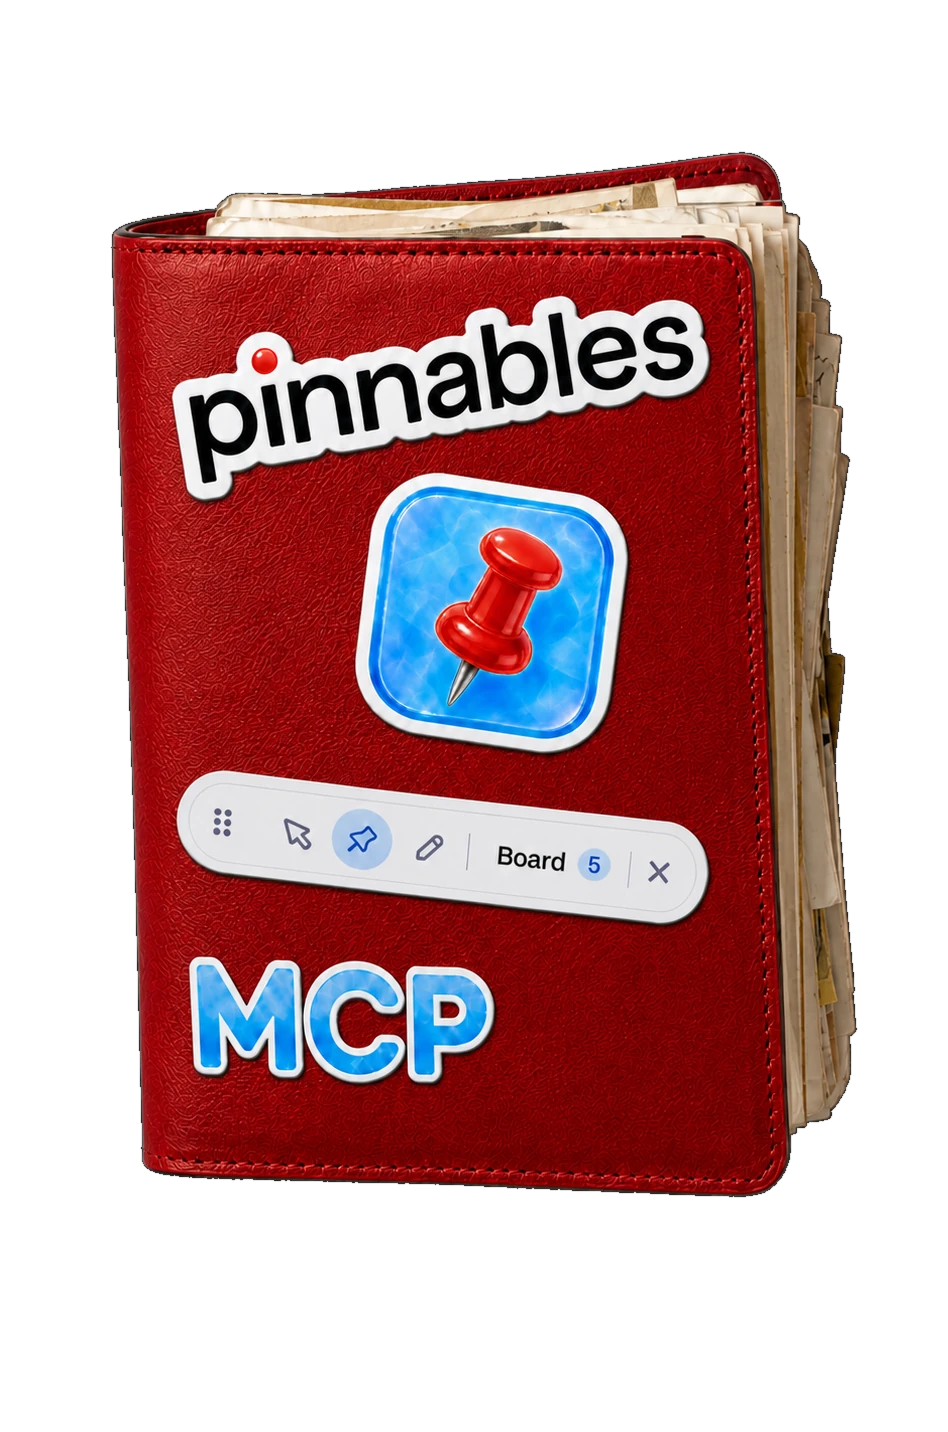
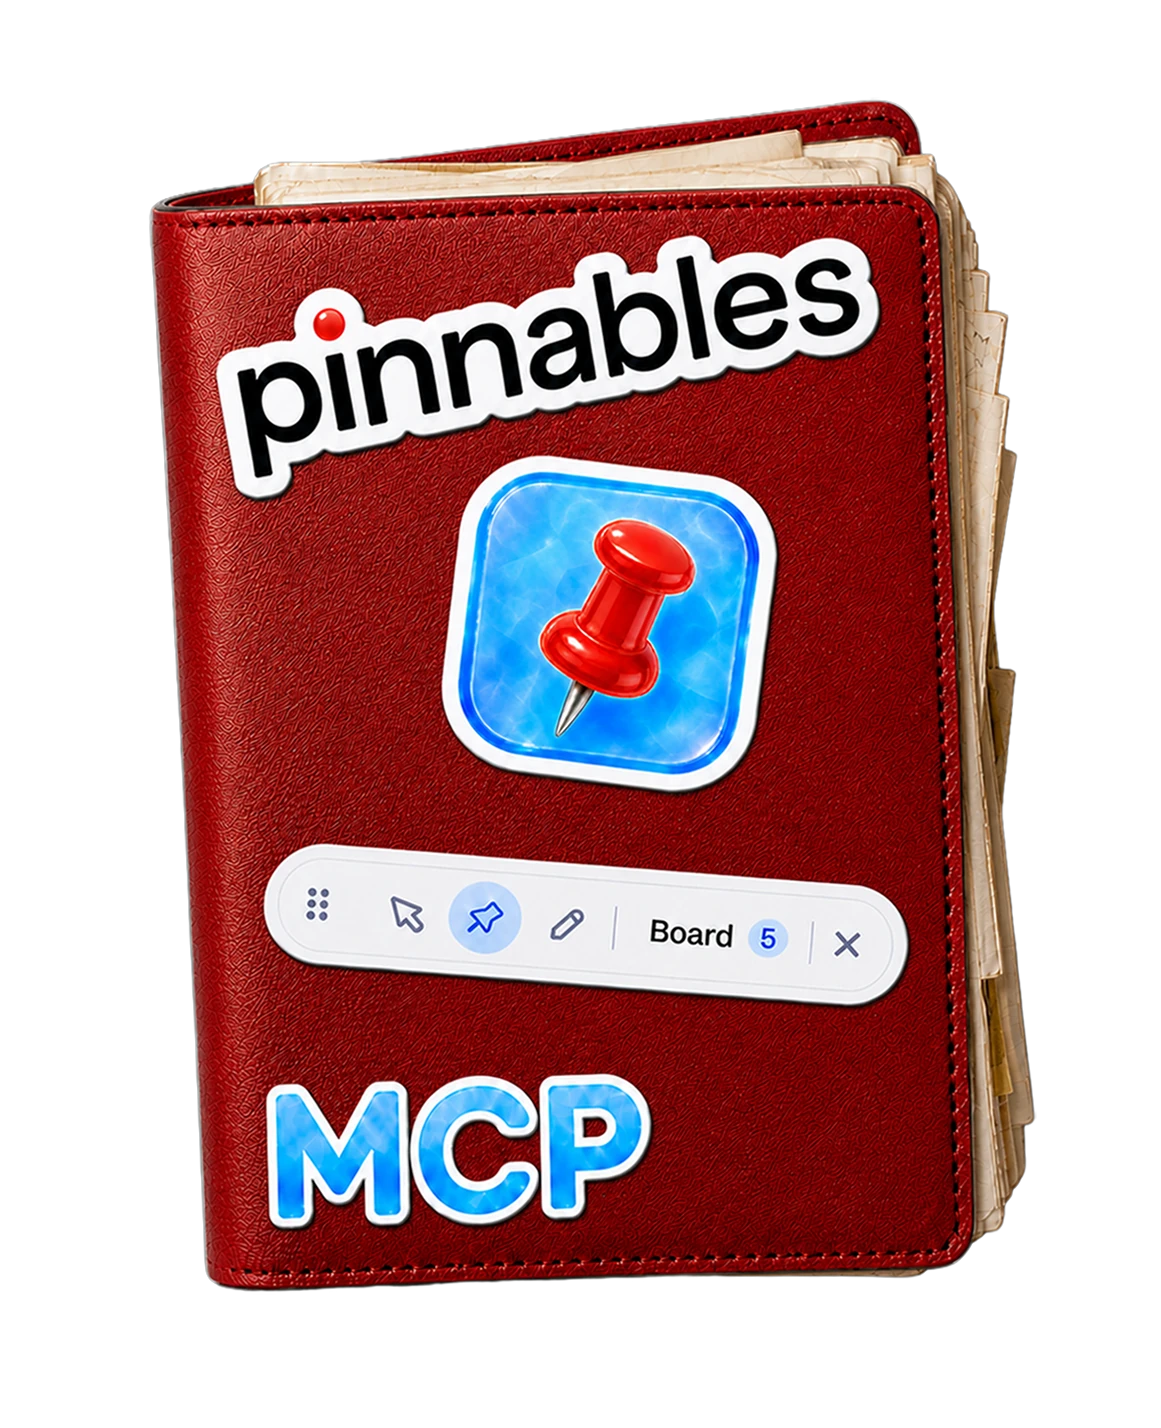
Journals: straight open cover for Pinnables, per-book lift and tilt
The Pinnables open frame was a render whose book sat rotated ~2.1 deg in
plane, so the notebook leaned left every time it opened. Swap it for the
transparent sibling export saved alongside the closed one, which stands
straight and shares its canvas. cutout.py now also rotates the open frame
1.275 deg to square its pose with the closed one: the two renders differ in
camera angle by 0.59 deg between spine and baseline, which no rigid rotation
can remove, so this splits that error evenly instead of loading it onto one
edge and reading as the cover twisting.

Hover behaviour is now per-book rather than one hardcoded transform:

  · openTilt sets the animated swing. It COMPOSES with the journal's resting
    rotation, so the net lean is their sum - Pinnables rests at +1.8, which is
    why the shared -1.5 left it sitting upright while its neighbours leaned.
  · openLift sets the rise, defaulting to the old -7.

Both default to the previous values, so Mixr is untouched.

Also fixes a lift that was never visible on Surprise Rail: trimOpen 7.57% sat
its open cover 11.85px below the closed one, more than the 7px rise, so the
book sank on hover. That padding was ballast for the old growth; with growth
at zero it only fought the lift. 5.31% seats the covers flush.

Covers come down 1% and 2%; --lead-h absorbs the label shift each resize
would otherwise cause, so both labels hold position to 0.000px.

diff --git a/src/pages/home/journals.ts b/src/pages/home/journals.ts
@@ -79,6 +79,18 @@ export type Journal = {
    *  including its annotation and both cover states. */
   offsetY: number;
   rotate: number;
+  /** Rotation the open cover springs to on hover, in degrees. It composes
+   *  with `rotate` above (the whole journal's resting pose), so the tilt the
+   *  eye reads is their SUM — the default -1.5 nets a left lean on a journal
+   *  resting counter-clockwise but nearly upright on one resting clockwise.
+   *  Override per journal to control the net lean. */
+  openTilt?: number;
+  /** How far the open cover rises on hover, in px. Negative is up; defaults to
+   *  -7. Only what the artwork does NOT already do — a frame whose own book
+   *  sits higher inside it needs less here. Check it against the seat: the
+   *  cover's real movement is this plus any difference in where the two frames
+   *  put the book's bottom edge. */
+  openLift?: number;
   /** What spills across the screen on hover. Empty is legitimate — a project
    *  with nothing to show yet opens onto an empty desk. */
   spill: SpillItem[];
@@ -100,15 +112,24 @@ export const journals: Journal[] = [
     hit: { x0: 0.1379, x1: 0.887, y0: 0.0357, y1: 0.96 },
     open: "/home/journals/hbomax-open.webp?v=2",
     trimClosed: "3.86%",
-    trimOpen: "7.57%",
+    /* Seats the open book's bottom edge flush with the closed one's. It was
+       7.57%, which pushed it 11.85px LOWER — more than the -7px hover lift, so
+       the notebook sank instead of rising and the lift was invisible. That
+       padding was cover for the old growth; with growth at zero it only fought
+       the lift. */
+    trimOpen: "5.31%",
     alt:
       "A sandy tan leather journal with HBO Max, eyes and Surprise stickers, tied with twine.",
     href: "/surprise-rail/",
-    width: 434,
+    width: 430,
     /* Net ~1% of its own rendered height (466px) below the shelf baseline —
        down 2%, then back up 1%. */
     offsetY: 4,
     rotate: -1.5,
+    /* The ANIMATED swing, not the pose: resting -1.5 means the open cover
+       settles at -4.02, further left than Pinnables, because this journal
+       already leans left at rest. */
+    openTilt: -2.52,
     /* Stills lifted straight out of /surprise-rail/ — the prototype as it was
        tested, not a re-render. Two shots, not three: the full home-screen grab
        carried the same film-reel tiles as the rail does and read as a duplicate
@@ -230,25 +251,40 @@ export const journals: Journal[] = [
     /* WebP rather than PNG like its neighbours: these frames arrive at twice
        their resolution, and WebP keeps all of it for a third of the weight
        (239KB against the ~590KB the smaller PNGs cost).
-       The closed cover comes from an export that already carried its own alpha;
-       the open one is still keyed off a black backdrop by
-       scripts/pinnables_notebook/cutout.py. Every number below is measured from
-       that script's output — re-run it if either frame is replaced. */
+       Both covers are transparent exports run through
+       scripts/pinnables_notebook/cutout.py, which sizes the open frame's canvas
+       so the pair cross-fades at matched scale and centre. Every number below
+       is measured from that script's output — re-run it if either frame is
+       replaced. */
     closed: "/home/journals/pinnables-closed.webp",
     hit: { x0: 0.1212, x1: 0.9002, y0: 0.0813, y1: 0.8959 },
-    open: "/home/journals/pinnables-open.webp",
+    open: "/home/journals/pinnables-open.webp?v=2",
     trimClosed: "10.41%",
-    trimOpen: "17.62%",
+    /* Tracks the open frame's canvas, which cutout.py resizes whenever
+       OPEN_GROWTH or OPEN_ROTATE changes — re-run it and copy the printed
+       trim rather than editing this by hand. */
+    trimOpen: "9.52%",
     alt:
       "A dark red leather journal with pinnables, pushpin and MCP stickers, stuffed with loose pages.",
     /* The notebooks share a baseline, so height is what the eye compares.
        Pinnables' saturated red cover and cleaner silhouette give it more
-       visual weight than its measured bounds suggest; rendering it 3% smaller
-       balances it optically with Surprise Rail and Mixr. The open export is
-       reduced by another 3% in home.css and re-centered within this frame. */
-    width: 449,
+       visual weight than its measured bounds suggest; rendering it 6% smaller
+       balances it optically with Surprise Rail and Mixr. The open frame needs
+       no per-book CSS: cutout.py already frames it at matched scale/centre. */
+    width: 436,
     offsetY: -3,
     rotate: 1.8,
+    /* The ANIMATED swing. Resting pose is +1.8 clockwise, so anything weaker
+       than -1.8 leaves the open cover sitting right of vertical no matter how
+       much it moves getting there — -1.6 netted +0.2 and read as no tilt at
+       all. -1.8 cancels the +1.8 resting pose exactly, so the ELEMENT ends up
+       at 0 — but the open artwork now carries its own lean from cutout.py's
+       OPEN_ROTATE, so the cover still reads as tilting rather than snapping
+       upright. That is why this can sit at the cancellation point and still
+       look right; it would not have before the frames were squared. */
+    openTilt: -1.8,
+    /* Rises further than the -7 default, asked for by eye. */
+    openLift: -10,
     /* One note, dead centre. There is no prototype to show yet, and a single
        scrap in the middle of an empty screen says that more plainly than a
        spread of placeholders would. */

diff --git a/src/pages/home/home.css b/src/pages/home/home.css
@@ -796,8 +796,10 @@
      100cqw * --cover-lift + --lead-h, and 100cqw IS the journal's width — so
      every px added to --jw lifts the label by --cover-lift, and --joffset
      carries it down bodily. This is what is left after holding the label still
-     through both. Retune it whenever this cover's width or offsetY moves. */
-  --lead-h: 23.87px;
+     through both. Retune it whenever this cover's width or offsetY moves.
+     Last retune: --jw 434 -> 430, which would have dropped the label 4.304px
+     (4 x --cover-lift), so that came back onto --lead-h. */
+  --lead-h: 28.174px;
 }
 
 .jr[data-journal="mixr"] .jr-annotation {
@@ -810,7 +812,9 @@
    Re-run that and update this if the cover is ever replaced. */
 .jr[data-journal="pinnables"] .jr-annotation {
   --cover-lift: 1.018;
-  --lead-h: 11px;
+  /* Was 11px at --jw 445; the cover came down to 436, which would have dropped
+     the label 9.162px (9 x --cover-lift), so that is added back here. */
+  --lead-h: 20.162px;
   /* Its copy runs to three lines against Surprise Rail's two, so an equal
      footing floated the block's top well above its neighbour's. Dropped until
      the two heading lines sit on one line across the shelf — the tops, since
@@ -853,24 +857,21 @@
    only their contents differ.
 
    surprise-rail: its open artwork holds a shorter book than its closed one, so
-   unscaled it shrank -4.02% and dropped on hover. These values instead grow it
-   +2.60%, the same growth mixr's pair has natively, so the two read alike on
-   hover. Confirmed by eye in the browser — do NOT replace with a bounds fit.
+   unscaled it shrank -3.74% and dropped on hover. This scale is exactly the
+   inverse of that (1 / 0.9626), so the open book renders at the closed one's
+   size - no growth on hover, only the lift and tilt. left is
+   -(width - 100%) / 2, which re-centres the scale.
+   Do NOT replace with a bounds fit; the transparent margins differ.
 
-   pinnables: hand-tuned. Fitting it analytically was tried twice (body bounds,
-   then a sticker-mask fit) and neither read right in place — its two shots are
-   on different canvases with different perspective, so pick values by eye
-   against the live hover and leave them.
+   pinnables: no rule since the straight open export — cutout.py frames the
+   open cover at the closed one's scale and centre, so the pair aligns at
+   width:100% like mixr's does. (The old rule compensated for a render whose
+   book was rotated ~2.1 deg; that frame is gone.)
 
    mixr: no rule — its pair is natively aligned. */
 .jr[data-journal="surprise-rail"] .jr-img--open {
-  left: -3.45%;
-  width: 106.9%;
-}
-
-.jr[data-journal="pinnables"] .jr-img--open {
-  left: 1.5463%;
-  width: 97%;
+  left: -1.9417%;
+  width: 103.883%;
 }
 
 

diff --git a/src/pages/home/Journal.tsx b/src/pages/home/Journal.tsx
@@ -69,6 +69,8 @@ function Journal({ journal, index }: Props) {
     width,
     offsetY,
     rotate,
+    openTilt,
+    openLift,
     spill,
   } = journal;
 
@@ -248,8 +250,11 @@ function Journal({ journal, index }: Props) {
           openImg,
           {
             opacity: visible ? 1 : 0,
-            y: visible ? -7 : 0,
-            rotate: visible ? -1.5 : 0,
+            y: visible ? openLift ?? -7 : 0,
+            /* Composes with the journal's resting rotation — the net lean is
+               their sum, which is why a journal resting clockwise needs a
+               stronger negative here to read as tilting left at all. */
+            rotate: visible ? openTilt ?? -1.5 : 0,
           },
           reduced ? { duration: 0 } : SPRING_HEAVY
         );

diff --git a/scripts/pinnables_notebook/cutout.py b/scripts/pinnables_notebook/cutout.py
@@ -25,10 +25,19 @@ FRAMES = [
     # The closed source is an export that already carries its own alpha, and it
     # beats anything keyed here: the bottom lip of the leather is a deep
     # shadowed red, and no threshold separates that from a black backdrop as
-    # cleanly as the tool that rendered it. Swap the open one for a transparent
-    # export too and this will pick that up automatically.
+    # cleanly as the tool that rendered it.
     ("Red notebook stickers.png", "pinnables-closed.webp"),
-    ("Generated image 1.png", "pinnables-open.webp"),
+    # The open frame is the transparent sibling export saved alongside the
+    # closed one (absolute path — it lives with the other notebook sources,
+    # not in Downloads). It replaced "Generated image 1.png", whose book was
+    # rotated ~2.1 deg counter-clockwise IN PLANE (spine and bottom edge
+    # agreed), which read as the notebook leaning left every time it opened.
+    # This export's bottom edge is level (-0.05 deg) and its spine matches the
+    # closed frame's natural 3/4 perspective, so the pair reads straight.
+    (
+        os.path.expanduser("~/Documents/Portfolio/Notebooks/Red open.png"),
+        "pinnables-open.webp",
+    ),
 ]
 
 # Anything at or below this luminance counts as backdrop, but only if the flood
@@ -114,7 +123,7 @@ def has_alpha(im):
     return im.mode == "RGBA" and im.getchannel("A").getextrema()[0] < 255
 
 
-def build(src_name, out_name, target_lift=None, target_centre=None):
+def build(src_name, out_name, target_lift=None, target_centre=None, rotate=0.0):
     src = Image.open(os.path.join(SRC, src_name))
 
     if has_alpha(src):
@@ -136,6 +145,11 @@ def build(src_name, out_name, target_lift=None, target_centre=None):
         im = im.convert("RGBA")
         im.putalpha(a)
         keyed = True
+    if rotate:
+        # One bicubic pass, before the reframe so the canvas is sized around the
+        # rotated book. These frames are 2x what they render at, so a single
+        # resample here is well under a screen pixel.
+        im = im.rotate(rotate, resample=Image.BICUBIC, expand=True)
     if target_lift is not None:
         im = reframe(im, target_lift, target_centre)
 
@@ -157,14 +171,31 @@ def build(src_name, out_name, target_lift=None, target_centre=None):
 
 
 # How much larger the open book reads than the closed one.
-# The other two notebooks were photographed swinging toward the camera, so their
-# covers get markedly WIDER as they open — +11% for Surprise Rail, +26% for
-# Mixr, growing the cover's area 1.12x and 1.29x. This one was rendered more
-# head-on, so its open cover is actually 2% narrower than its closed one and the
-# whole notebook reads as shrinking on hover. A pose cannot be recovered by
-# scaling, but the size impression can: this factor is set so the open cover's
-# AREA grows 1.12x, matching Surprise Rail.
-OPEN_GROWTH = 1.085
+# 1.0 renders the open cover at exactly the closed one's size. 1.085 (open
+# cover area 1.12x, matching Surprise Rail's photographed growth) and 1.0425
+# both read as the book swelling next to its neighbours; this is the tiny lift
+# in scale that survived, small enough to feel like the cover coming toward you
+# rather than a resize.
+OPEN_GROWTH = 1.01
+
+# Counter-clockwise degrees applied to the OPEN frame only, to square its pose
+# with the closed frame's.
+#
+# The two renders were shot at slightly different camera angles. Fitting a line
+# to each edge, the open book sits -0.98 deg off the closed one measured at the
+# spine but +1.57 off measured at the bottom. Those disagree, and the gap is
+# what the eye reads as perspective: through the cross-fade the baseline and
+# the spine swing by DIFFERENT amounts, so the cover looks sheared rather than
+# tilted.
+#
+# No rotation can remove that gap — it is a perspective difference, and a rigid
+# rotation shifts both readings together, so the 0.59 deg between them survives
+# whatever R is. What R chooses is how the error is SPLIT. 1.58 pinned the
+# baseline exactly and dumped all 0.59 onto the spine, which is what read as
+# the cover twisting. 1.275 is the midpoint of -0.98 and +1.57, so each edge is
+# off by 0.295 and neither one visibly leads. Fixing it properly means
+# re-rendering the open frame at the closed frame's camera angle.
+OPEN_ROTATE = 1.275
 
 if __name__ == "__main__":
     (cs, co), (os_, oo) = FRAMES
@@ -174,4 +205,5 @@ if __name__ == "__main__":
         oo,
         target_lift=closed_lift * OPEN_GROWTH,
         target_centre=closed_centre,
+        rotate=OPEN_ROTATE,
     )
